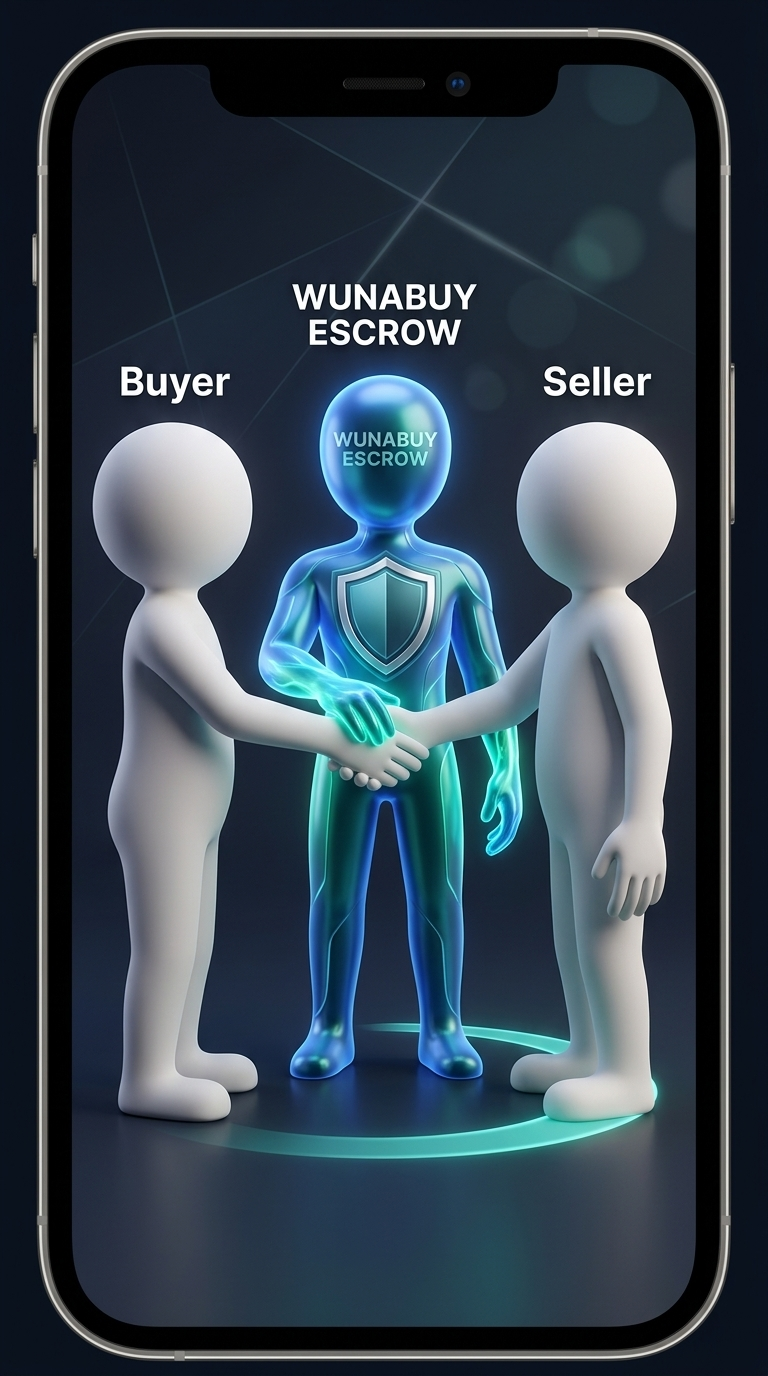
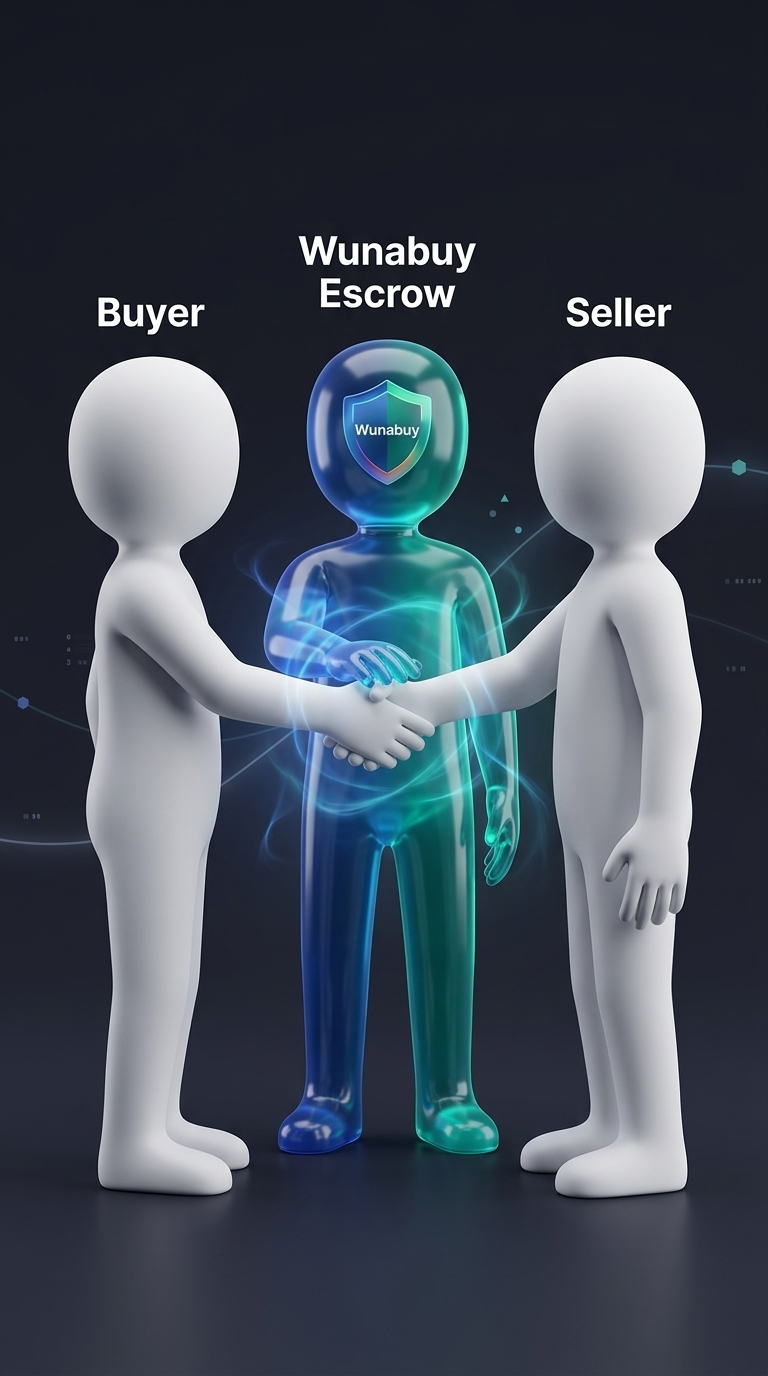
style(mobile): remove slider automation, remove top bordered badge pills, refine headline copy to No Worries, and replace 3D Escrow picture with pure artwork without phone frame

diff --git a/mobile/src/components/onboarding/WalkthroughCarousel.tsx b/mobile/src/components/onboarding/WalkthroughCarousel.tsx
@@ -1,4 +1,4 @@
-import React, { useState, useRef, useEffect } from 'react';
+import React, { useState, useRef } from 'react';
 import {
   View,
   FlatList,
@@ -23,9 +23,6 @@ const HERO_DELIVERY = require('../../../assets/onboarding/hero_delivery.jpg');
 
 export interface SlideItem {
   id: string;
-  badge: string;
-  badgeColor: string;
-  badgeBg: string;
   title: string;
   subtitle: string;
   image: any;
@@ -34,19 +31,13 @@ export interface SlideItem {
 const ONBOARDING_SLIDES: SlideItem[] = [
   {
     id: '1',
-    badge: '🔒 100% SAFE SHOPPING',
-    badgeColor: '#0D9488',
-    badgeBg: 'rgba(13, 148, 136, 0.25)',
-    title: 'No Scams, No Worries! ✨\nYour Money Is Always Safe',
+    title: 'No Worries! ✨\nYour Money Is Always Safe',
     subtitle:
       'Shop with complete peace of mind. We hold your payment securely until you receive, inspect, and approve your order at your door.',
     image: HERO_ESCROW,
   },
   {
     id: '2',
-    badge: '🏬 TRUSTED LOCAL SHOPS',
-    badgeColor: '#3B82F6',
-    badgeBg: 'rgba(59, 130, 246, 0.25)',
     title: 'Shop From Real Stores ✨\nIn Your Neighborhood',
     subtitle:
       'Discover thousands of genuine phones, electronics, fashion, and home goods from trusted local shop owners in your city.',
@@ -54,9 +45,6 @@ const ONBOARDING_SLIDES: SlideItem[] = [
   },
   {
     id: '3',
-    badge: '📍 LIVE RIDER TRACKING',
-    badgeColor: '#F59E0B',
-    badgeBg: 'rgba(245, 158, 11, 0.25)',
     title: 'Fast Doorstep Delivery ✨\nTracked to Your Gate',
     subtitle:
       'Watch your delivery rider move on a live map in real-time as your package travels directly from the store to your hand.',
@@ -78,19 +66,6 @@ export const WalkthroughCarousel: React.FC<WalkthroughCarouselProps> = ({
   const insets = useSafeAreaInsets();
   const [activeIndex, setActiveIndex] = useState(0);
   const flatListRef = useRef<FlatList>(null);
-
-  // Automated Motion Slideshow Effect (Rotates every 4 seconds)
-  useEffect(() => {
-    const timer = setInterval(() => {
-      setActiveIndex((prevIndex) => {
-        const nextIndex = (prevIndex + 1) % ONBOARDING_SLIDES.length;
-        flatListRef.current?.scrollToIndex({ index: nextIndex, animated: true });
-        return nextIndex;
-      });
-    }, 4000);
-
-    return () => clearInterval(timer);
-  }, []);
 
   const onViewableItemsChanged = useRef(
     ({ viewableItems }: { viewableItems: ViewToken[] }) => {
@@ -140,14 +115,6 @@ export const WalkthroughCarousel: React.FC<WalkthroughCarouselProps> = ({
             {/* Dimmed Dark Overlay Sheet Behind Text Content */}
             <View style={styles.textDimmedOverlaySheet}>
               <View style={styles.slideContentBox}>
-                {/* Floating Context Badge */}
-                <View style={[styles.badgePill, { backgroundColor: item.badgeBg, borderColor: item.badgeColor }]}>
-                  <View style={[styles.badgeDot, { backgroundColor: item.badgeColor }]} />
-                  <Text variant="caption" bold color="#FFFFFF" style={styles.badgeText}>
-                    {item.badge}
-                  </Text>
-                </View>
-
                 {/* Overlaid Headline */}
                 <Text variant="h1" bold color="#FFFFFF" style={styles.slideTitle}>
                   {item.title}
@@ -313,7 +280,7 @@ const styles = StyleSheet.create({
     bottom: 0,
     left: 0,
     right: 0,
-    height: SCREEN_HEIGHT * 0.52,
+    height: SCREEN_HEIGHT * 0.48,
     backgroundColor: 'rgba(11, 16, 23, 0.88)',
     justifyContent: 'flex-start',
     paddingHorizontal: spacing.xl,
@@ -324,29 +291,9 @@ const styles = StyleSheet.create({
   slideContentBox: {
     width: '100%',
   },
-  badgePill: {
-    flexDirection: 'row',
-    alignItems: 'center',
-    alignSelf: 'flex-start',
-    paddingHorizontal: spacing.md,
-    paddingVertical: spacing.xs,
-    borderRadius: borderRadius.full,
-    borderWidth: 1,
-    marginBottom: spacing.md,
-    gap: 6,
-  },
-  badgeDot: {
-    width: 6,
-    height: 6,
-    borderRadius: 3,
-  },
-  badgeText: {
-    fontSize: 11,
-    letterSpacing: 0.8,
-  },
   slideTitle: {
-    fontSize: 27,
-    lineHeight: 35,
+    fontSize: 28,
+    lineHeight: 36,
     marginBottom: spacing.sm,
     letterSpacing: -0.3,
   },
